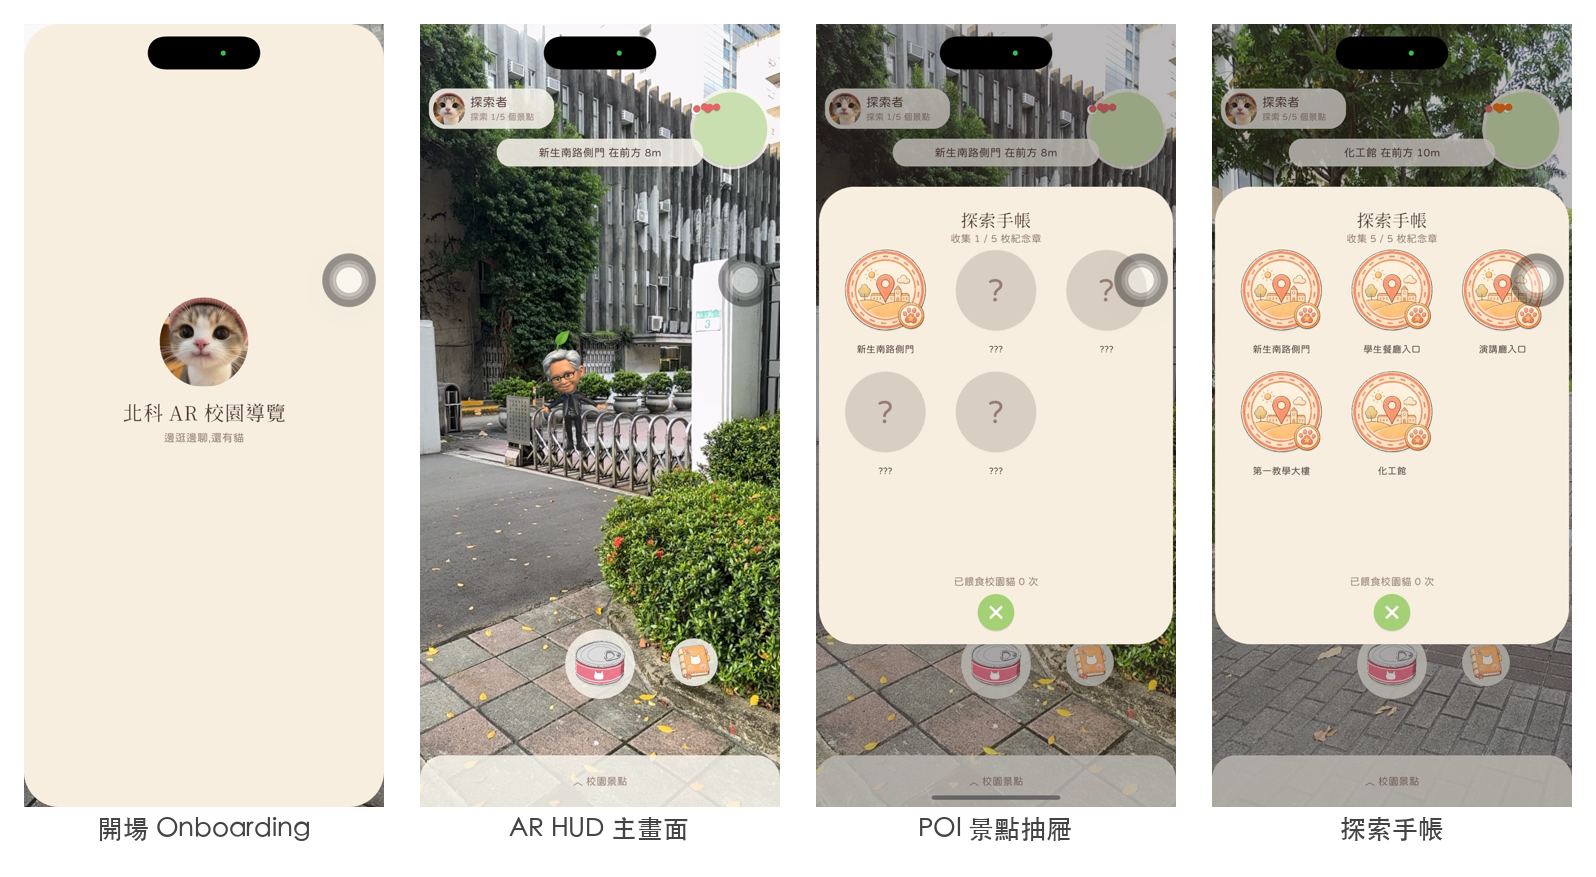
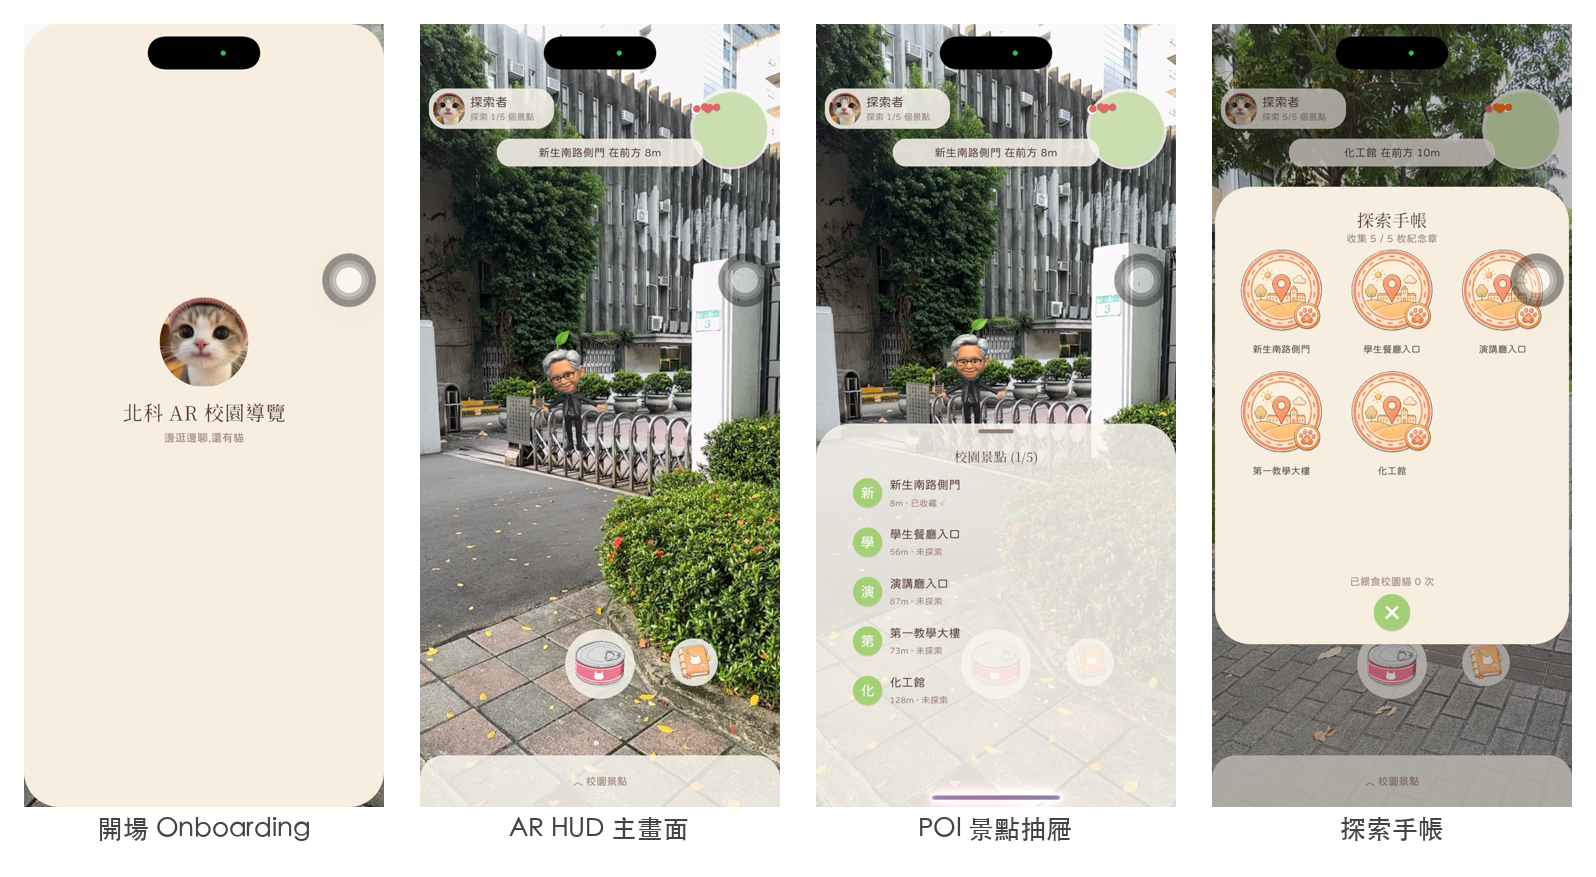
fix(slides+report): 套用回饋 — 人設→知識、流程圖放大、修正抽屜截圖
- 「人設」改為「知識」(每個 POI 是專屬知識點,非角色人設)— 簡報+報告書一致
- 簡報 p16 對話流程圖改為全高(頂到標題、不擋文字)
- POI 景點抽屜截圖換成正確畫面(0013;原誤用探索手帳變體),簡報+報告書 montage 同步

Changed region(s): [[0.4912, 0.0, 0.7368, 0.9236]]

diff --git a/slides/ntut-ar-campus-tour/index.tsx b/slides/ntut-ar-campus-tour/index.tsx
@@ -226,7 +226,7 @@ const NpcIntro: Page = () => (
           <li>Jenson 角色:皮衣眼鏡造型,暱稱「老黃」</li>
           <li>走近 POI 自動現身、開口解說</li>
           <li>四組動畫:聆聽 / 說話 / 走動 / 揮手</li>
-          <li>面向使用者時平滑轉身、不會瞬間扭頭(Slerp 球面插值補間)</li>
+          <li>使用 Slerp 球面插值，讓 NPC 平滑轉向使用者，避免方向突然跳轉，<br />使互動更自然。</li>
         </ul>
       </div>
     </div>
@@ -244,7 +244,7 @@ const NpcMaking: Page = () => (
         </div>
         <div style={{ marginTop: 36, background: CARD, border: `1px solid ${LINE}`, borderRadius: 16, padding: '28px 30px' }}>
           <div style={{ fontSize: 28, fontWeight: 800, color: AMBER }}>踩雷與解決</div>
-          <div style={{ fontSize: 27, color: MUTED, marginTop: 12, lineHeight: 1.6 }}>綁骨後手臂網格被拉扯沾黏到大腿 → 改成<span style={{ color: GREEN, fontWeight: 700 }}> T-pose 參考圖</span>,蒙皮權重才正確分離,才有流暢動畫。</div>
+          <div style={{ fontSize: 27, color: MUTED, marginTop: 12, lineHeight: 1.6 }}>綁骨後，手臂網格出現拉扯並黏到大腿的問題；因此改用 T-pose 參考圖，讓骨架影響範圍更清楚分離，使動畫表現更流暢。<br />{''}<span style={{ color: GREEN, fontWeight: 700 }}>{''}</span>{''}</div>
         </div>
       </div>
       <div style={{ width: 540, display: 'flex', alignItems: 'center', justifyContent: 'center', background: '#15181f', borderRadius: 18, border: `1px solid ${LINE}` }}>
@@ -280,7 +280,7 @@ const UIShot = ({ src, label }: { src: string; label: string }) => (
 const UIUX: Page = () => (
   <Shell eyebrow="DESIGN — UI/UX" title="暖色玻璃擬態設計系統">
     <div style={{ display: 'flex', flexDirection: 'column', height: '100%' }}>
-      <div style={{ fontSize: 30, lineHeight: 1.6 }}>皮克敏暖色 + 玻璃擬態(glassmorphism),以程式化 UI builder 產生,風格一致、版控可控。</div>
+      <div style={{ fontSize: 30, lineHeight: 1.6 }}>暖色 + 玻璃擬態(glassmorphism),以程式化 UI builder 產生,風格一致、版控可控。</div>
       <div style={{ display: 'flex', gap: 14, marginTop: 18 }}>
         <Pill c="#E07B00">AccentOrange</Pill><Pill c={GREEN}>ButtonGreen</Pill><Pill c="#B08A4F">WarmBg</Pill><Pill c="#9A7B6A">GlassFill</Pill>
       </div>
@@ -297,10 +297,10 @@ const UIUX: Page = () => (
 const Div3: Page = () => <SectionDivider num="03" who="張凱琳" title="LLM 即時對話 · 語音 pipeline" />;
 
 const LLM: Page = () => (
-  <Shell eyebrow="功能③ LLM 對話" title="每棟建築專屬人設的即時對話">
+  <Shell eyebrow="功能③ LLM 對話" title="每棟建築專屬知識的即時對話">
     <ul style={{ ...bullet, marginBottom: 36 }}>
       <li>用統一介面 <code style={{ color: GREEN }}>ILlmClient</code> 接 LLM,可隨時抽換模型 / 供應商</li>
-      <li>每個 POI 帶專屬 system prompt(該地標的知識與人設)</li>
+      <li>每個 POI 帶專屬 system prompt(載入該地標的專屬知識)</li>
       <li>只依該 POI 上下文回答,避免幻覺;先直答、最多 6 點</li>
     </ul>
     <div style={{ background: CARD, border: `1px solid ${LINE}`, borderRadius: 16, padding: '28px 32px', fontSize: 28, color: MUTED, lineHeight: 1.6 }}>
@@ -310,18 +310,21 @@ const LLM: Page = () => (
 );
 
 const DialogueFlow: Page = () => (
-  <Shell eyebrow="功能③ LLM 對話" title="對話流程與穩定性">
-    <div style={{ display: 'flex', gap: 56, height: '100%' }}>
-      <div style={{ flex: 1, display: 'flex', flexDirection: 'column', justifyContent: 'center' }}>
-        <ul style={{ ...bullet }}>
-          <li>文字先顯示 → 語音隨後合成播放</li>
-          <li>429 / 逾時 / 5xx → 退避重試(≤2 次)</li>
-          <li>仍失敗 → 友善降級訊息,App 不卡死</li>
-        </ul>
-      </div>
-      <div style={{ width: 660, height: '100%' }}><Figure src={pipeline} maxH={760} /></div>
+  <div style={{ ...fill, background: INK, color: TXT, padding: '84px 120px 70px', position: 'relative', display: 'flex', gap: 48 }}>
+    <div style={{ flex: 1, display: 'flex', flexDirection: 'column', justifyContent: 'center', paddingBottom: 40 }}>
+      <div style={{ color: AMBER, fontSize: 24, fontWeight: 700, letterSpacing: '0.18em', marginBottom: 14 }}>功能③ LLM 對話</div>
+      <h2 style={{ fontFamily: DISPLAY, fontSize: 62, fontWeight: 800, margin: 0, lineHeight: 1.14 }}>對話流程與穩定性</h2>
+      <ul style={{ ...bullet, marginTop: 48 }}>
+        <li>文字先顯示 → 語音隨後合成播放</li>
+        <li>429 / 逾時 / 5xx → 退避重試(≤2 次)</li>
+        <li>仍失敗 → 友善降級訊息,App 不卡死</li>
+      </ul>
     </div>
-  </Shell>
+    <div style={{ width: 800, display: 'flex', alignItems: 'center', justifyContent: 'center' }}>
+      <img src={pipeline} style={{ maxWidth: '100%', maxHeight: 910, objectFit: 'contain', borderRadius: 14, border: `1px solid ${LINE}`, background: '#fff', padding: 18, boxShadow: '0 12px 36px rgba(40,40,60,0.10)', boxSizing: 'border-box' }} />
+    </div>
+    <Footer />
+  </div>
 );
 
 const Voice: Page = () => (
@@ -396,7 +399,7 @@ const Results: Page = () => (
     <div style={{ display: 'flex', gap: 28, height: 380 }}>
       <Done t="AR 定位導覽" d="Geospatial 公尺以下精度 + 接近觸發" />
       <Done t="虛擬導遊 NPC" d="Jenson + 動畫狀態機 + 解說" />
-      <Done t="LLM 對話與語音" d="專屬人設 + TTS / STT / 簡繁" />
+      <Done t="LLM 對話與語音" d="專屬知識 + TTS / STT / 簡繁" />
       <Done t="AR 校園貓 RL" d="Q-Learning 1300 episodes" />
     </div>
     <div style={{ marginTop: 40, fontSize: 32, lineHeight: 1.6 }}>

diff --git a/presentation/期末報告/期末報告書_Report.md b/presentation/期末報告/期末報告書_Report.md
@@ -118,7 +118,7 @@
 
 1. **AR 定位導覽**:VPS 高精度定位 + POI anchor + 接近觸發。
 2. **虛擬導遊 NPC**:Jenson 角色 + 動畫狀態機 + 走近現身解說。
-3. **LLM 即時對話與語音**:每棟建築專屬人設 prompt + 文字/語音雙向互動。
+3. **LLM 即時對話與語音**:每棟建築專屬知識 prompt + 文字/語音雙向互動。
 4. **AR 校園貓**:Q-Learning 訓練的 NPC,Pokémon Go 式召喚與餵食彩蛋。
 
 ---
@@ -224,13 +224,13 @@ ARCore Geospatial API 透過三項資料源融合定位:
 - **參數**:max tokens 500、timeout 30s
 - **設定載入**:金鑰與 URL 來自 `StreamingAssets/llm_config.json`(已加入 `.gitignore`,CI 由 secret 生成),首次提問時延遲載入,缺檔時退回 Inspector 預設。
 
-### 3.3.2 每棟建築專屬人設 Prompt
+### 3.3.2 每棟建築專屬知識 Prompt
 
 `LlmPromptBuilder` 依當前 POI 組裝 system prompt,核心規則:
 
 - **資料來源限定**:只能根據該 POI 的 `llmSystemPrompt` 上下文回答,避免幻覺。
 - **回答風格**:先直接回答、不照抄整段資料、最多列 6 點、純文字 3–6 句。
-- 帶入 `CURRENT_POI_ID / NAME / CONTEXT`,讓每個地標都有專屬的「人設與知識」。
+- 帶入 `CURRENT_POI_ID / NAME / CONTEXT`,讓每個地標都有專屬的知識上下文。
 
 ### 3.3.3 降級與重試
 
@@ -476,7 +476,7 @@ PlayerPrefs.SetInt("HasDisplayedGeospatialPrivacyPrompt", 1);
 
 1. **AR 定位導覽**:ARCore Geospatial 達公尺以下精度,POI anchor + 30 m 接近觸發,走近即現身。
 2. **虛擬導遊 NPC**:Jenson 角色 + 四動畫狀態機,持續面向使用者,走近 POI 自動解說。
-3. **LLM 即時對話與語音**:每棟建築專屬人設 prompt,文字/語音雙向互動,具降級重試與簡繁修正。
+3. **LLM 即時對話與語音**:每棟建築專屬知識 prompt,文字/語音雙向互動,具降級重試與簡繁修正。
 4. **AR 校園貓**:tabular Q-Learning(1300 episodes)訓練的 NPC,Pokémon Go 式召喚餵食彩蛋。
 
 工程上建立了 iOS / Android **雙平台自動化 CI/CD**、安全的金鑰注入流程與模組化架構。專案歷時約 4 週、約 47 個 commit,從提案到雙平台部署完整落地。